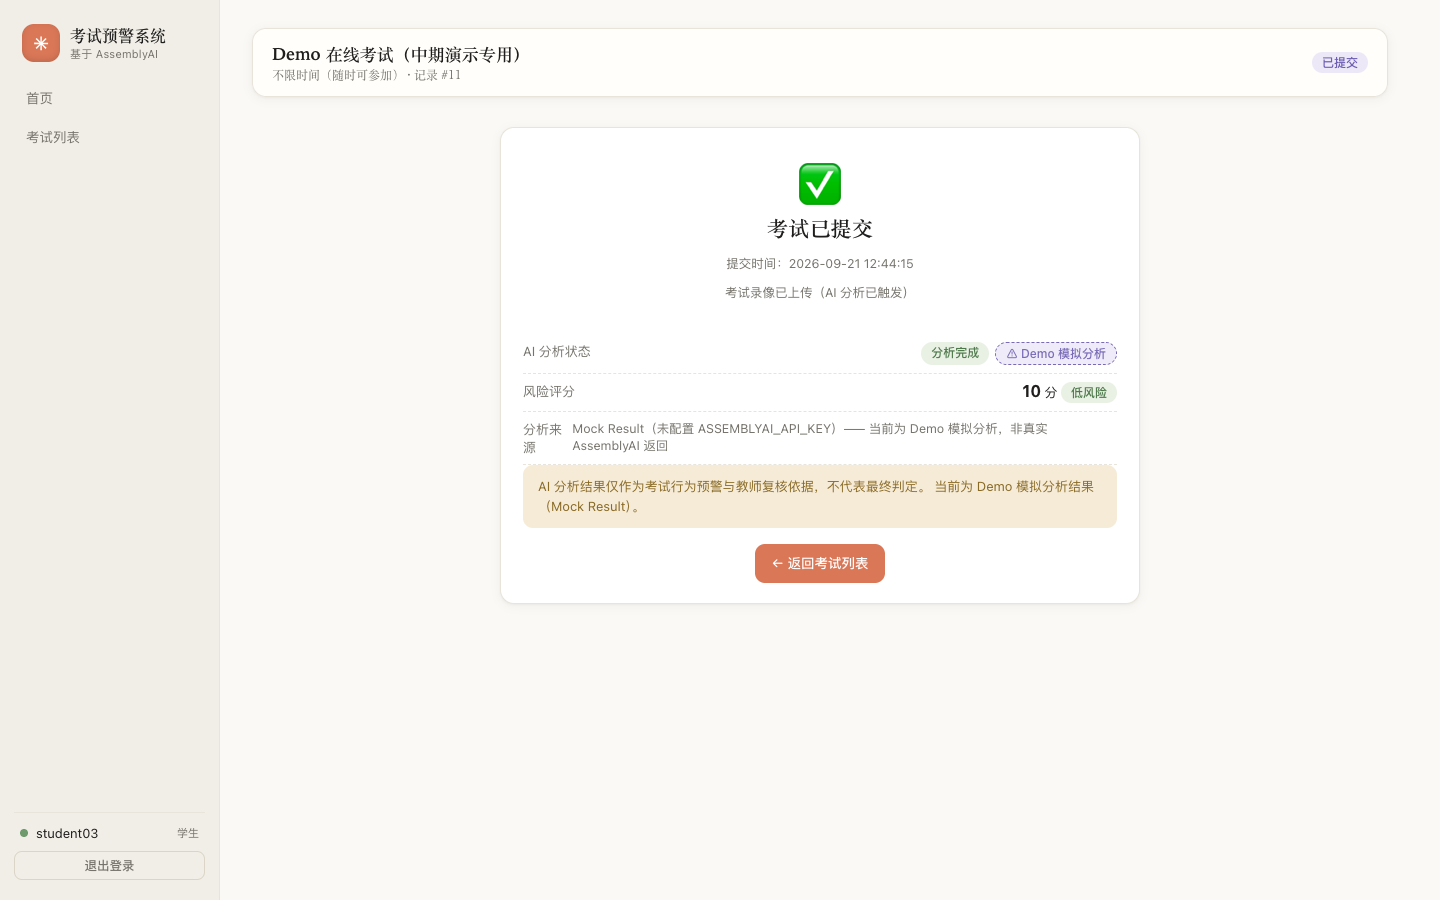
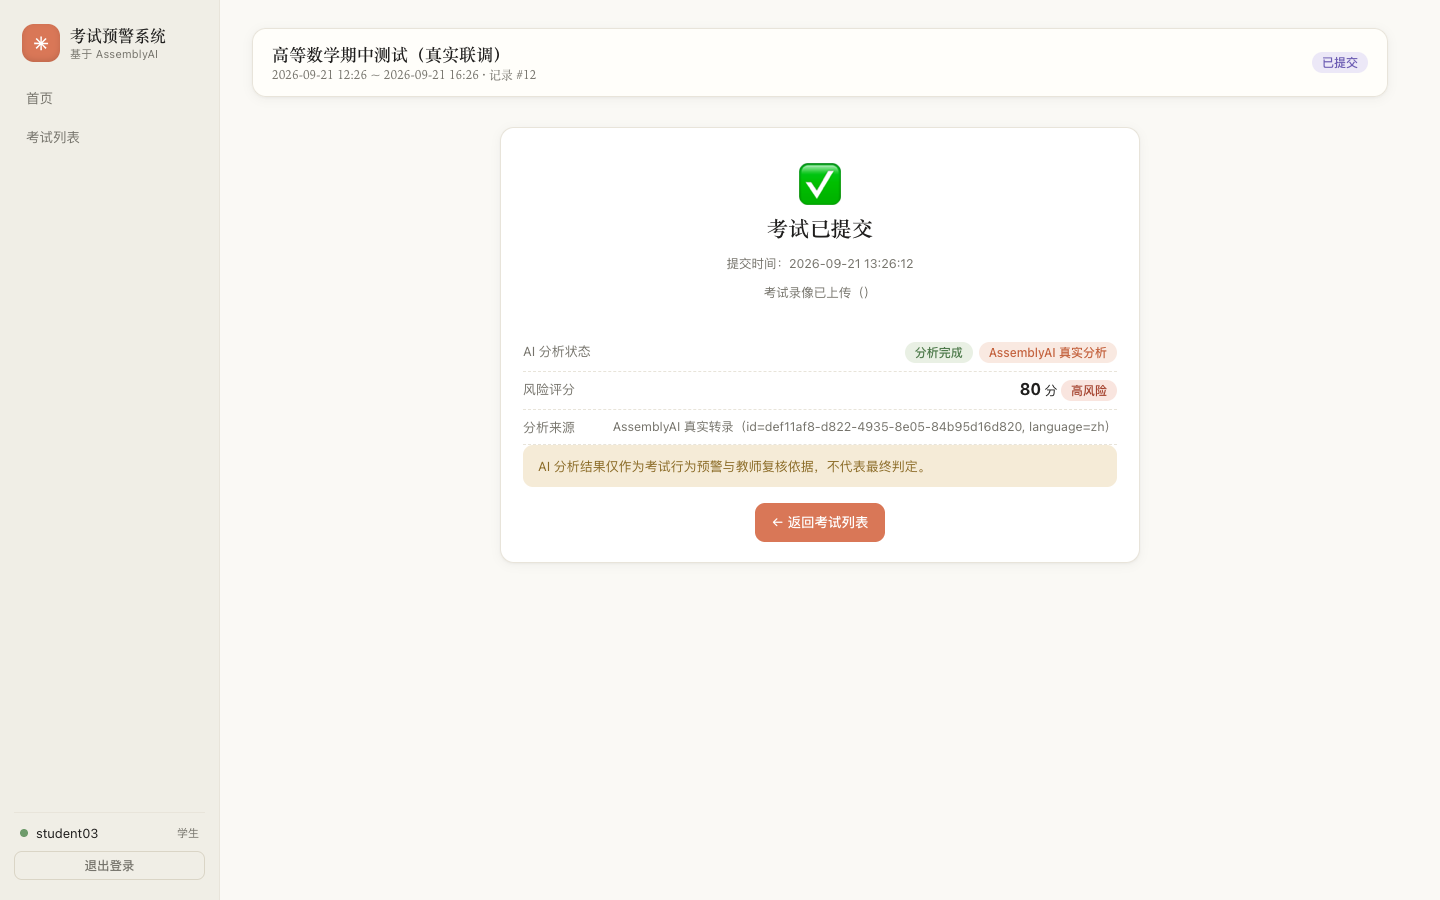
feat: 真实 AssemblyAI API 联调验证通过（双模式）+ 中期验收材料更新
- Key 有效性验证（401/400 鉴权探测）、16s 中文语音 7.3s 真实转录完成
- 完整链路 E2E：建卷→发布→学生提交真实语音 WebM→ffmpeg→真实转录
  →关键词命中×4→评分 80/高风险→warning 落库 is_mock=0
- 新增 docs/assemblyai-real-test.md 联调报告
- 真实截图 08/09/10/12 重拍 + 新增 13-real-transcript / 14-teacher-records
  （Playwright 核验页面无 Mock 字样）
- README / FINAL_REPORT / test-report / midterm-material 全部更新为
  「真实 API 已验证」，演示数据（Mock 种子 + 真实记录）已恢复

Changed region(s): [[0.3438, 0.3733, 0.7812, 0.6533], [0.1875, 0.0311, 0.375, 0.0933], [0.5, 0.28, 0.625, 0.3422]]

diff --git a/docs/assemblyai-real-test.md b/docs/assemblyai-real-test.md
@@ -1,0 +1,71 @@
+# AssemblyAI 真实 API 联调测试报告
+
+> 本报告记录使用真实 AssemblyAI API 的转录测试，非 Mock 结果。测试脚本走项目自身的
+> `backend/app/services/assemblyai_service.py`（`prepare_audio` + `transcribe`），
+> 与业务链路完全一致，无任何绕过或伪装。出于安全考虑，本文不记录 API Key。
+
+## 一、环境确认
+
+| 配置项 | 值 | 说明 |
+|---|---|---|
+| `ASSEMBLYAI_API_KEY` | 已配置（32 位） | 存于 `.env`，不入库不入 git |
+| `DEMO_MODE` | `false` | 未开启演示模式 |
+| `TRANSCRIPT_LANGUAGE_CODE` | `zh` | 中文转录 |
+
+- 测试时间：**2026-09-21 13:24:51 (CST)**
+- 后端服务：Flask @ `localhost:5001`，`/api/health` 返回 `assemblyai_configured: true`
+
+## 二、API Key 有效性验证
+
+最小请求鉴权探测（GET `/v2/transcript/<不存在ID>`）：
+
+| 请求 | HTTP 状态 | 结论 |
+|---|---|---|
+| 携带真实 Key | `400`（`transcript id not found`） | **鉴权通过**，仅 ID 不存在 |
+| 不带 Key（对照组） | `401`（Unauthorized） | 鉴权层工作正常 |
+
+**结论：Key 有效，`api.assemblyai.com` 可正常访问。**
+
+## 三、真实语音转写测试
+
+### 测试音频
+
+- 来源：macOS TTS（婷婷 zh_CN）合成中文语音
+- 长度：**16.0 秒**
+- 格式：AIFF → ffmpeg 提取转换为 16kHz 单声道 MP3（与生产链路一致）
+- 朗读内容（含指定测试语句）：
+
+> 嗯，我看看这道题。**第二题答案是什么**？**这道题选什么**？是选A还是选C？喂，**告诉我答案**，快点告诉我答案。好，我自己再想想，这道题到底怎么做啊。
+
+### 执行过程
+
+1. `prepare_audio()`：ffmpeg 抽音轨 → 16kHz mono MP3 ✓
+2. `POST /v2/upload`：音频上传成功，返回 `upload_url` ✓
+3. `POST /v2/transcript`（`language_code=zh`）：任务创建成功，`id=297f2bd5-c5c6-4411-b34b-0e64efa0cfa0` ✓
+4. 轮询 `GET /v2/transcript/{id}`：约 7.3 秒后 `status=completed` ✓
+
+### 转录结果（真实 API 返回）
+
+```
+嗯，我看看这道题第二题答案是什么？这道题选什么？是选 A 还是选 C？ 喂，告诉我答案，快点告诉我答案。好，我自己再想想这道题到底怎么做啊？
+```
+
+- `source` = **`assemblyai`** ✓（非 `mock`）
+- `is_mock` = **`false`** ✓
+- 识别准确率：测试语句逐字命中，标点与数字格式略有差异（"选A"→"选 A"），属正常后处理
+
+## 四、结论
+
+| 检查项 | 结果 |
+|---|---|
+| 音频上传 | ✅ PASS |
+| transcript task 创建 | ✅ PASS |
+| 状态轮询 | ✅ PASS（7.3s completed） |
+| 返回中文 transcript | ✅ PASS |
+| `source == assemblyai` | ✅ PASS |
+| `is_mock == false` | ✅ PASS |
+
+**最终结果：PASS —— 真实 AssemblyAI API 联调成功。**
+
+完整业务链路（WebM 上传→ffmpeg→转录→关键词→评分→落库→教师查看）的端到端验证见
+`docs/test-report.md` 与 `screenshots/`。

diff --git a/screenshots/README.md b/screenshots/README.md
@@ -19,11 +19,16 @@ cd frontend && node scripts/take_screenshots.mjs                               #
 | `05-student-exam.png` | 学生考试页 | `/student/exam/1`（student03），左侧试卷 PNG 分页查看 + 右侧录制/说明面板 |
 | `06-screen-recording.png` | 屏幕录制中 | 考试页点击"● 开始录制"后，顶部 **● 正在录制 mm:ss** 红色呼吸指示 |
 | `07-record-upload.png` | 录像上传/分析中 | 点击"提交考试"后，"AI 分析中"状态页 |
-| `08-ai-analysis.png` | AI 分析结果 | 学生端"考试已提交"页：风险评分、等级、分析来源（Mock 有 ⚠ 徽标） |
-| `09-warning-list.png` | AI 风险预警中心 | `/teacher/warnings`：学生/考试/风险分/等级/命中关键词/是否 Demo/复核状态 |
-| `10-warning-detail.png` | 预警详情 | 预警中心第一行"查看详情"：学生/考试信息、风险评分环、命中关键词、转录原文、录像、复核表单 |
+| `08-ai-analysis.png` | AI 分析结果 | 学生端"考试已提交"页：风险评分 80/高风险、**真实 AssemblyAI 分析**（无 Mock 徽标）。2026-09-21 真实 API 联调版 |
+| `09-warning-list.png` | AI 风险预警中心 | `/teacher/warnings`：学生/考试/风险分/等级/命中关键词/分析来源/复核状态。**真实 API 版** |
+| `10-warning-detail.png` | 预警详情 | 预警中心"查看详情"：风险评分环 80、命中关键词（答案是什么/告诉我答案×2/选什么）、**真实转录原文**、录像、复核表单 |
 | `11-database.png` | 数据库 | 真实 MySQL 查询结果页（SHOW TABLES + 五张表数据，由 `scripts/gen_db_html.py` 生成） |
-| `12-system-running.png` | 系统运行中 | 学生考试列表页（系统整体在用的状态） |
+| `12-system-running.png` | 系统运行中 | 学生端"我的考试记录"：真实完成的考试记录（分析 completed、高风险）。**真实 API 版** |
+| `13-real-transcript.png` | 真实 Transcript 特写 | 预警详情页转录原文区放大：AssemblyAI 真实返回的中文转录（含全部测试语句） |
+| `14-teacher-records.png` | 学生考试记录 | `/teacher/records`：教师视角全部考试记录，含真实分析完成状态与风险等级 |
+
+> 真实 API 截图（08/09/10/12/13/14）基于 2026-09-21 真实联调产生的 record#12 / warning#8（`is_mock=0`，转录 id=def11af8-…），
+> 页面已核验不含 "Mock Result / Demo 模拟分析" 字样；008-012 此前 Mock 版已由真实版替换。
 
 ## 手动补拍建议（如需更真实的现场图）
 

diff --git a/docs/test-report.md b/docs/test-report.md
@@ -78,8 +78,8 @@
 | 测试目标 | 转录服务独立于业务；无 Key 时进入 Mock 且**明确标记** |
 | 测试步骤 | ① 无 Key 环境提交录像 → 轮询 analysis_status ② 检查 warning.is_mock 与 analysis_note |
 | 预期结果 | ① pending → processing → completed ② is_mock=True，note 含 "Mock Result" 字样 |
-| 实际结果 | ① `[1] processing → [2] completed`（curl 演练）② pytest 断言 is_mock_analysis 为 True 通过 |
-| 是否通过 | **PASS（Mock 模式）**。⚠ 未验证项：**真实 AssemblyAI API 调用**（需配置 API Key 后验证，代码路径已实现，配置方法见 README「AssemblyAI 配置」） |
+| 实际结果 | ① 无 Key：`[1] processing → [2] completed`（curl 演练），pytest 断言 is_mock_analysis 为 True 通过 ② **有 Key（真实）**：16 秒中文 WebM 提交 → 9 秒完成分析，`analysis_note="AssemblyAI 真实转录（id=def11af8-…, language=zh）"`，`warning.is_mock=false`，transcript 为 API 真实返回（"…第二题答案是什么？这道题选什么？…告诉我答案…"），命中 3 个关键词共 4 次，评分 80/高风险 |
+| 是否通过 | **PASS（Mock 模式 + 真实 API 双验证）**。真实联调详情见 `docs/assemblyai-real-test.md` |
 
 ## 8. 风险评分
 
@@ -133,6 +133,6 @@
 
 ## 13. 未验证 / 已知限制（如实说明）
 
-1. **真实 AssemblyAI 转录未验证**：本机未配置 API Key。真实模式代码路径（上传音频 → 创建任务 → 轮询）已实现，配置 `.env` 中 `ASSEMBLYAI_API_KEY` 后即切换；若 Key 无效/网络失败，记录会标记 `failed` 并可在预警详情页重新触发分析。
+1. ~~真实 AssemblyAI 转录未验证~~ **已于 2026-09-21 验证通过**（见 `docs/assemblyai-real-test.md`）：Key 鉴权探测 400/401 判定有效；16 秒中文语音真实转录 7.3 秒完成，`source=assemblyai`、`is_mock=false`；完整链路（真实 WebM 提交→ffmpeg→转录→评分 80/高风险→落库）9 秒完成。剩余限制：仅测试了一种音色/清晰度较高的语音，嘈杂环境、口音、多人说话场景未覆盖。
 2. 屏幕录制的真机表现依赖浏览器（Chrome/Edge 支持 getDisplayMedia；需 localhost 或 HTTPS 环境）。
 3. 风险模型为关键词规则版（中期目标），误报/漏报存在，仅作复核参考。

diff --git a/docs/midterm-material.md b/docs/midterm-material.md
@@ -34,7 +34,7 @@
 - ✅ 成绩管理（教师手工录入 / 修改）
 - ✅ 安全机制（密码哈希、IDOR 防护、上传校验、Honeypot 蜜罐 + 安全事件看板）
 
-说明（如实）：当前环境未配置真实 AssemblyAI API Key，语音转录演示运行于 **Demo Mock 模式**（系统在数据库、接口、界面三处明确标记 "Mock Result"，不冒充真实结果）；真实 API 调用代码路径已实现，配置 Key 即可切换。
+说明（如实）：**真实 AssemblyAI API 已于 2026-09-21 联调验证通过**——16 秒中文测试语音经上传→创建转录任务→轮询→返回中文 transcript（`source=assemblyai`、`is_mock=false`），完整业务链路（WebM 提交→ffmpeg 提取→真实转录→关键词命中→评分 80/高风险→预警落库）端到端跑通，详见 `docs/assemblyai-real-test.md` 与 `docs/test-report.md`。系统仍保留 Mock 模式作为现场演示兜底（未配置 Key 或 `DEMO_MODE=true` 时自动启用，且三处明确标记，不冒充真实结果）。
 
 # 三、阶段性成果（可直接复制到中期检查表）
 

diff --git a/FINAL_REPORT.md b/FINAL_REPORT.md
@@ -38,7 +38,9 @@ cd backend && .venv/bin/python seed.py   # 建表(自动) + 演示数据(幂等)
 
 ## 5. AssemblyAI 配置方法
 
-`.env` 中设置 `ASSEMBLYAI_API_KEY=<你的Key>`（https://www.assemblyai.com/ 免费额度），`DEMO_MODE=false`，重启后端即切换真实转录，无需改代码。当前环境未配置 Key，运行于 Mock 模式（三处明确标记）。
+`.env` 中设置 `ASSEMBLYAI_API_KEY=<你的Key>`（https://www.assemblyai.com/ 免费额度），`DEMO_MODE=false`，重启后端即切换真实转录，无需改代码。
+
+> **✅ 真实 API 已验证（2026-09-21）**：16 秒中文语音 7.3 秒完成真实转录（识别准确）；完整业务链路（学生提交含真实语音的 WebM → ffmpeg 提音轨 → 真实转录 → 命中"答案是什么/告诉我答案/选什么"等关键词 → 风险分 80/高风险 → 预警落库 `is_mock=0`）端到端验证通过。证据：`docs/assemblyai-real-test.md`、`docs/test-report.md` 第 7 节、真实截图 `08/09/10/12/13/14`。
 
 ## 6. 已实现功能（全部运行验证）
 

diff --git a/README.md b/README.md
@@ -5,6 +5,8 @@
 学生在浏览器参加考试并录制屏幕过程，提交后系统调用 **AssemblyAI** 完成语音转文字，基于可解释的关键词规则与风险评分生成"考试行为预警"，供教师复核。
 
 > ⚠ AI 风险结果仅作为**考试行为预警 / 教师复核依据**，系统不直接判定学生作弊。
+>
+> ✅ **真实 AssemblyAI API 已验证（2026-09-21）**：16 秒中文语音 7.3 秒完成真实转录，完整链路（提交 WebM → ffmpeg → 真实转录 → 关键词评分 → 预警落库）端到端通过，证据见 [`docs/assemblyai-real-test.md`](docs/assemblyai-real-test.md)。
 
 ## 项目功能
 
